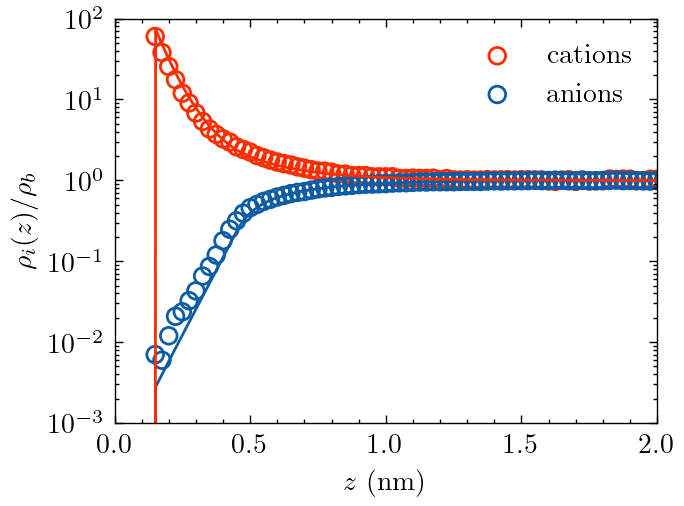
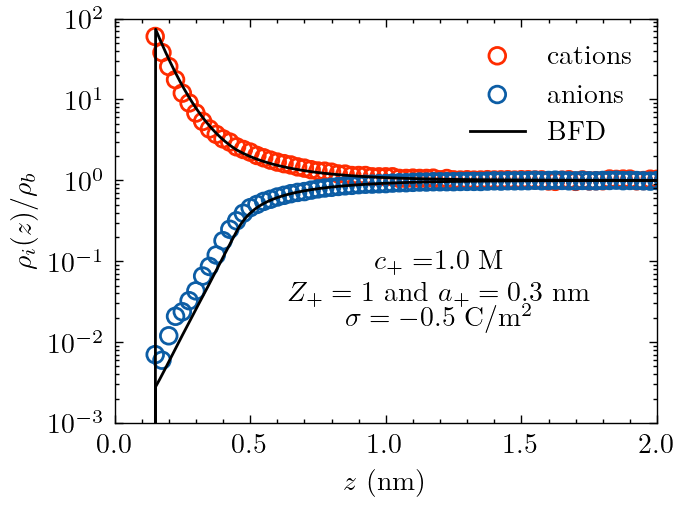
Adding new example

diff --git a/examples/Voukadinova.py b/examples/Voukadinova.py
@@ -9,10 +9,10 @@ import pandas as pd
 plt.style.use(['science'])
 
 d = np.array([0.3,0.3])
-L = 12.0
+L = 3.0
 Z = np.array([-1,1])
 
-c = 0.01 #mol/L (equivalent to ionic strength for 1:1)
+c = 1.0 #mol/L (equivalent to ionic strength for 1:1)
 rhob = np.array([-(Z[1]/Z[0])*c,c])*6.022e23/1.0e24 # particles/nm^3
 
 ele = ElectrolyteDFT1D(L=L,d=d,Z=Z,ecmethod='BFD')
@@ -36,7 +36,7 @@ ele.Update_System()
 
 ele.Calculate_Equilibrium(method='fire',dt=0.002,rtol=1e-3,atol=1e-4,logoutput=True)
 
-sheetname='Fig5-Z+=1-rho+=0.01M'
+sheetname='Fig5-Z+=1-rho+='+str(c)+'M'
 df = pd.read_excel('MCdata/MCdata-Voukadinova2018.xls',sheet_name=sheetname) 
 
 cion = np.array([-(Z[1]/Z[0])*c,c]) # from charge equilibrium
@@ -49,10 +49,10 @@ plt.plot(ele.z,ele.rho[1]/rhob[1],'k')
 plt.xlabel(r'$z$ (nm)')
 plt.ylabel(r'$\rho_i(z)/\rho_b$')
 plt.xlim(0.0,2)
-plt.ylim(1e-3,1e4)
-plt.text(0.7,5e0,'$c_+ = 0.01$ M', ha='center', va='center')
-plt.text(0.7,2e0,'$Z_+ = 1$ and $a_+ = 0.3$ nm', ha='center', va='center')
-plt.text(0.7,5e-1,'$\sigma = -0.5$ C/m$^2$', ha='center', va='center')
+plt.ylim(1e-3,1e2)
+plt.text(1.2,1e-1,'$c_+ = $'+str(c)+' M', ha='center', va='center')
+plt.text(1.2,4e-2,'$Z_+ = 1$ and $a_+ = 0.3$ nm', ha='center', va='center')
+plt.text(1.2,2e-2,'$\sigma = -0.5$ C/m$^2$', ha='center', va='center')
 plt.legend(loc='upper right',ncol=1)
 plt.savefig('ionprofile-electrolyte-Voukadinova2018-'+sheetname+'.png',dpi=200)
 plt.show()
@@ -62,9 +62,9 @@ plt.xlim(0.0,2)
 plt.ylim(top=0)
 plt.xlabel(r'$z$ (nm)')
 plt.ylabel(r'$\beta e \psi(z)$')
-plt.text(1.5,-5,'$c_+ = 0.01$ M', ha='center', va='center')
-plt.text(1.5,-6,'$Z_+ = 1$ and $a_+ = 0.3$ nm', ha='center', va='center')
-plt.text(1.5,-7,'$\sigma = -0.5$ C/m$^2$', ha='center', va='center')
+plt.text(1.2,-5.5,'$c_+ = $'+str(c)+' M', ha='center', va='center')
+plt.text(1.2,-6,'$Z_+ = 1$ and $a_+ = 0.3$ nm', ha='center', va='center')
+plt.text(1.2,-6.5,'$\sigma = -0.5$ C/m$^2$', ha='center', va='center')
 plt.savefig('potential-electrolyte-Voukadinova2018-'+sheetname+'.png',dpi=200)
 plt.show()
 

diff --git a/README.md b/README.md
@@ -58,4 +58,7 @@ valid on the boundary surface $\partial V$, where $\boldsymbol{\hat{n}}(\boldsym
 ## Voukadinova
 |![Figure1](https://github.com/elvissoares/PyDFTele/blob/main/examples/ionprofile-electrolyte-Voukadinova2018-Fig5-Z%2B%3D1-rho%2B%3D0.01M.png)|![Figure2](https://github.com/elvissoares/PyDFTele/blob/main/examples/potential-electrolyte-Voukadinova2018-Fig5-Z%2B%3D1-rho%2B%3D0.01M.png)|
 |:--:|:--:|
-| <b>Fig.1 - The ionic density profiles of an 1:1 electrolyte solution with c_+=0.01 and σ = -0.5C/m². </b>| <b>Fig.2 - The electrostatic potential profile of an 1:1 electrolyte solution with c_+=0.01 and σ = -0.5C/m². </b>|
+| <b>Fig.1 - The ionic density profiles of an 1:1 electrolyte solution with c_+= 0.01 M and σ = -0.5C/m². </b>| <b>Fig.2 - The electrostatic potential profile of an 1:1 electrolyte solution with c_+= 0.01 M and σ = -0.5C/m². </b>|
+|![Figure3](https://github.com/elvissoares/PyDFTele/blob/main/examples/ionprofile-electrolyte-Voukadinova2018-Fig5-Z%2B%3D1-rho%2B%3D1.0M.png)|![Figure4](https://github.com/elvissoares/PyDFTele/blob/main/examples/potential-electrolyte-Voukadinova2018-Fig5-Z%2B%3D1-rho%2B%3D1.0M.png)|
+|:--:|:--:|
+| <b>Fig.3 - The ionic density profiles of an 1:1 electrolyte solution with c_+= 1.0 M and σ = -0.5C/m². </b>| <b>Fig.4 - The electrostatic potential profile of an 1:1 electrolyte solution with c_+= 1.0 M and σ = -0.5C/m². </b>|
